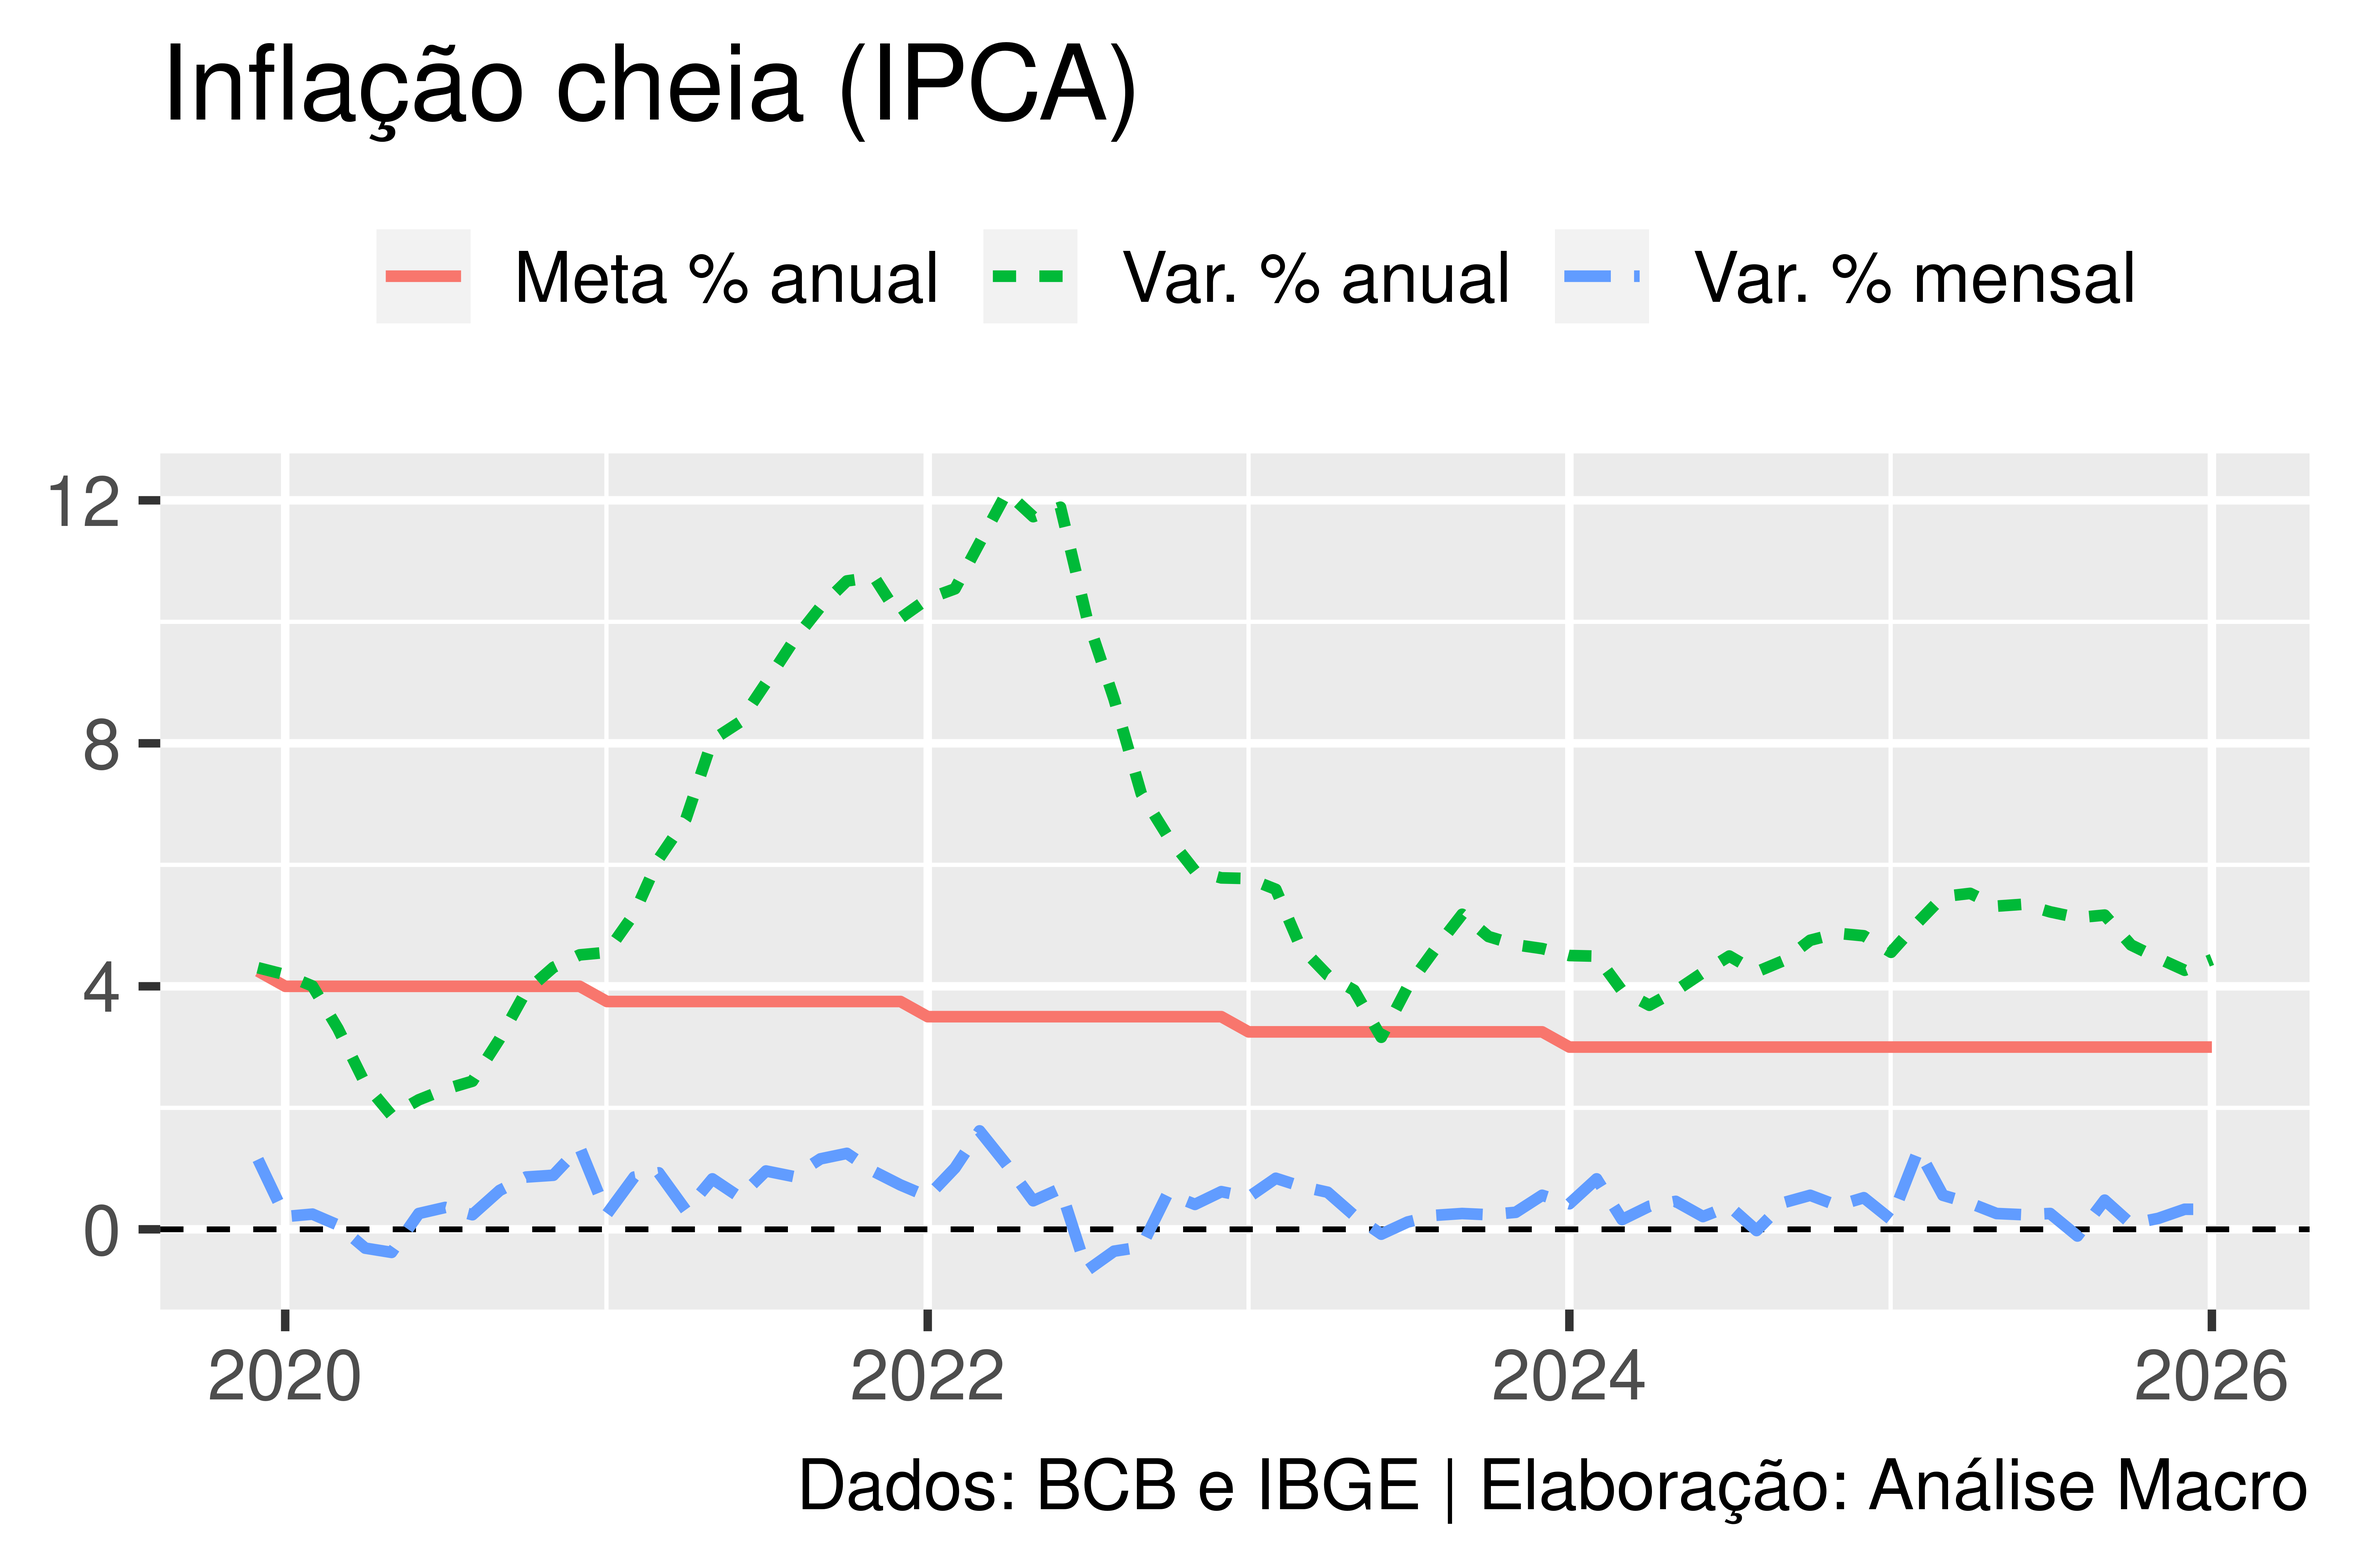
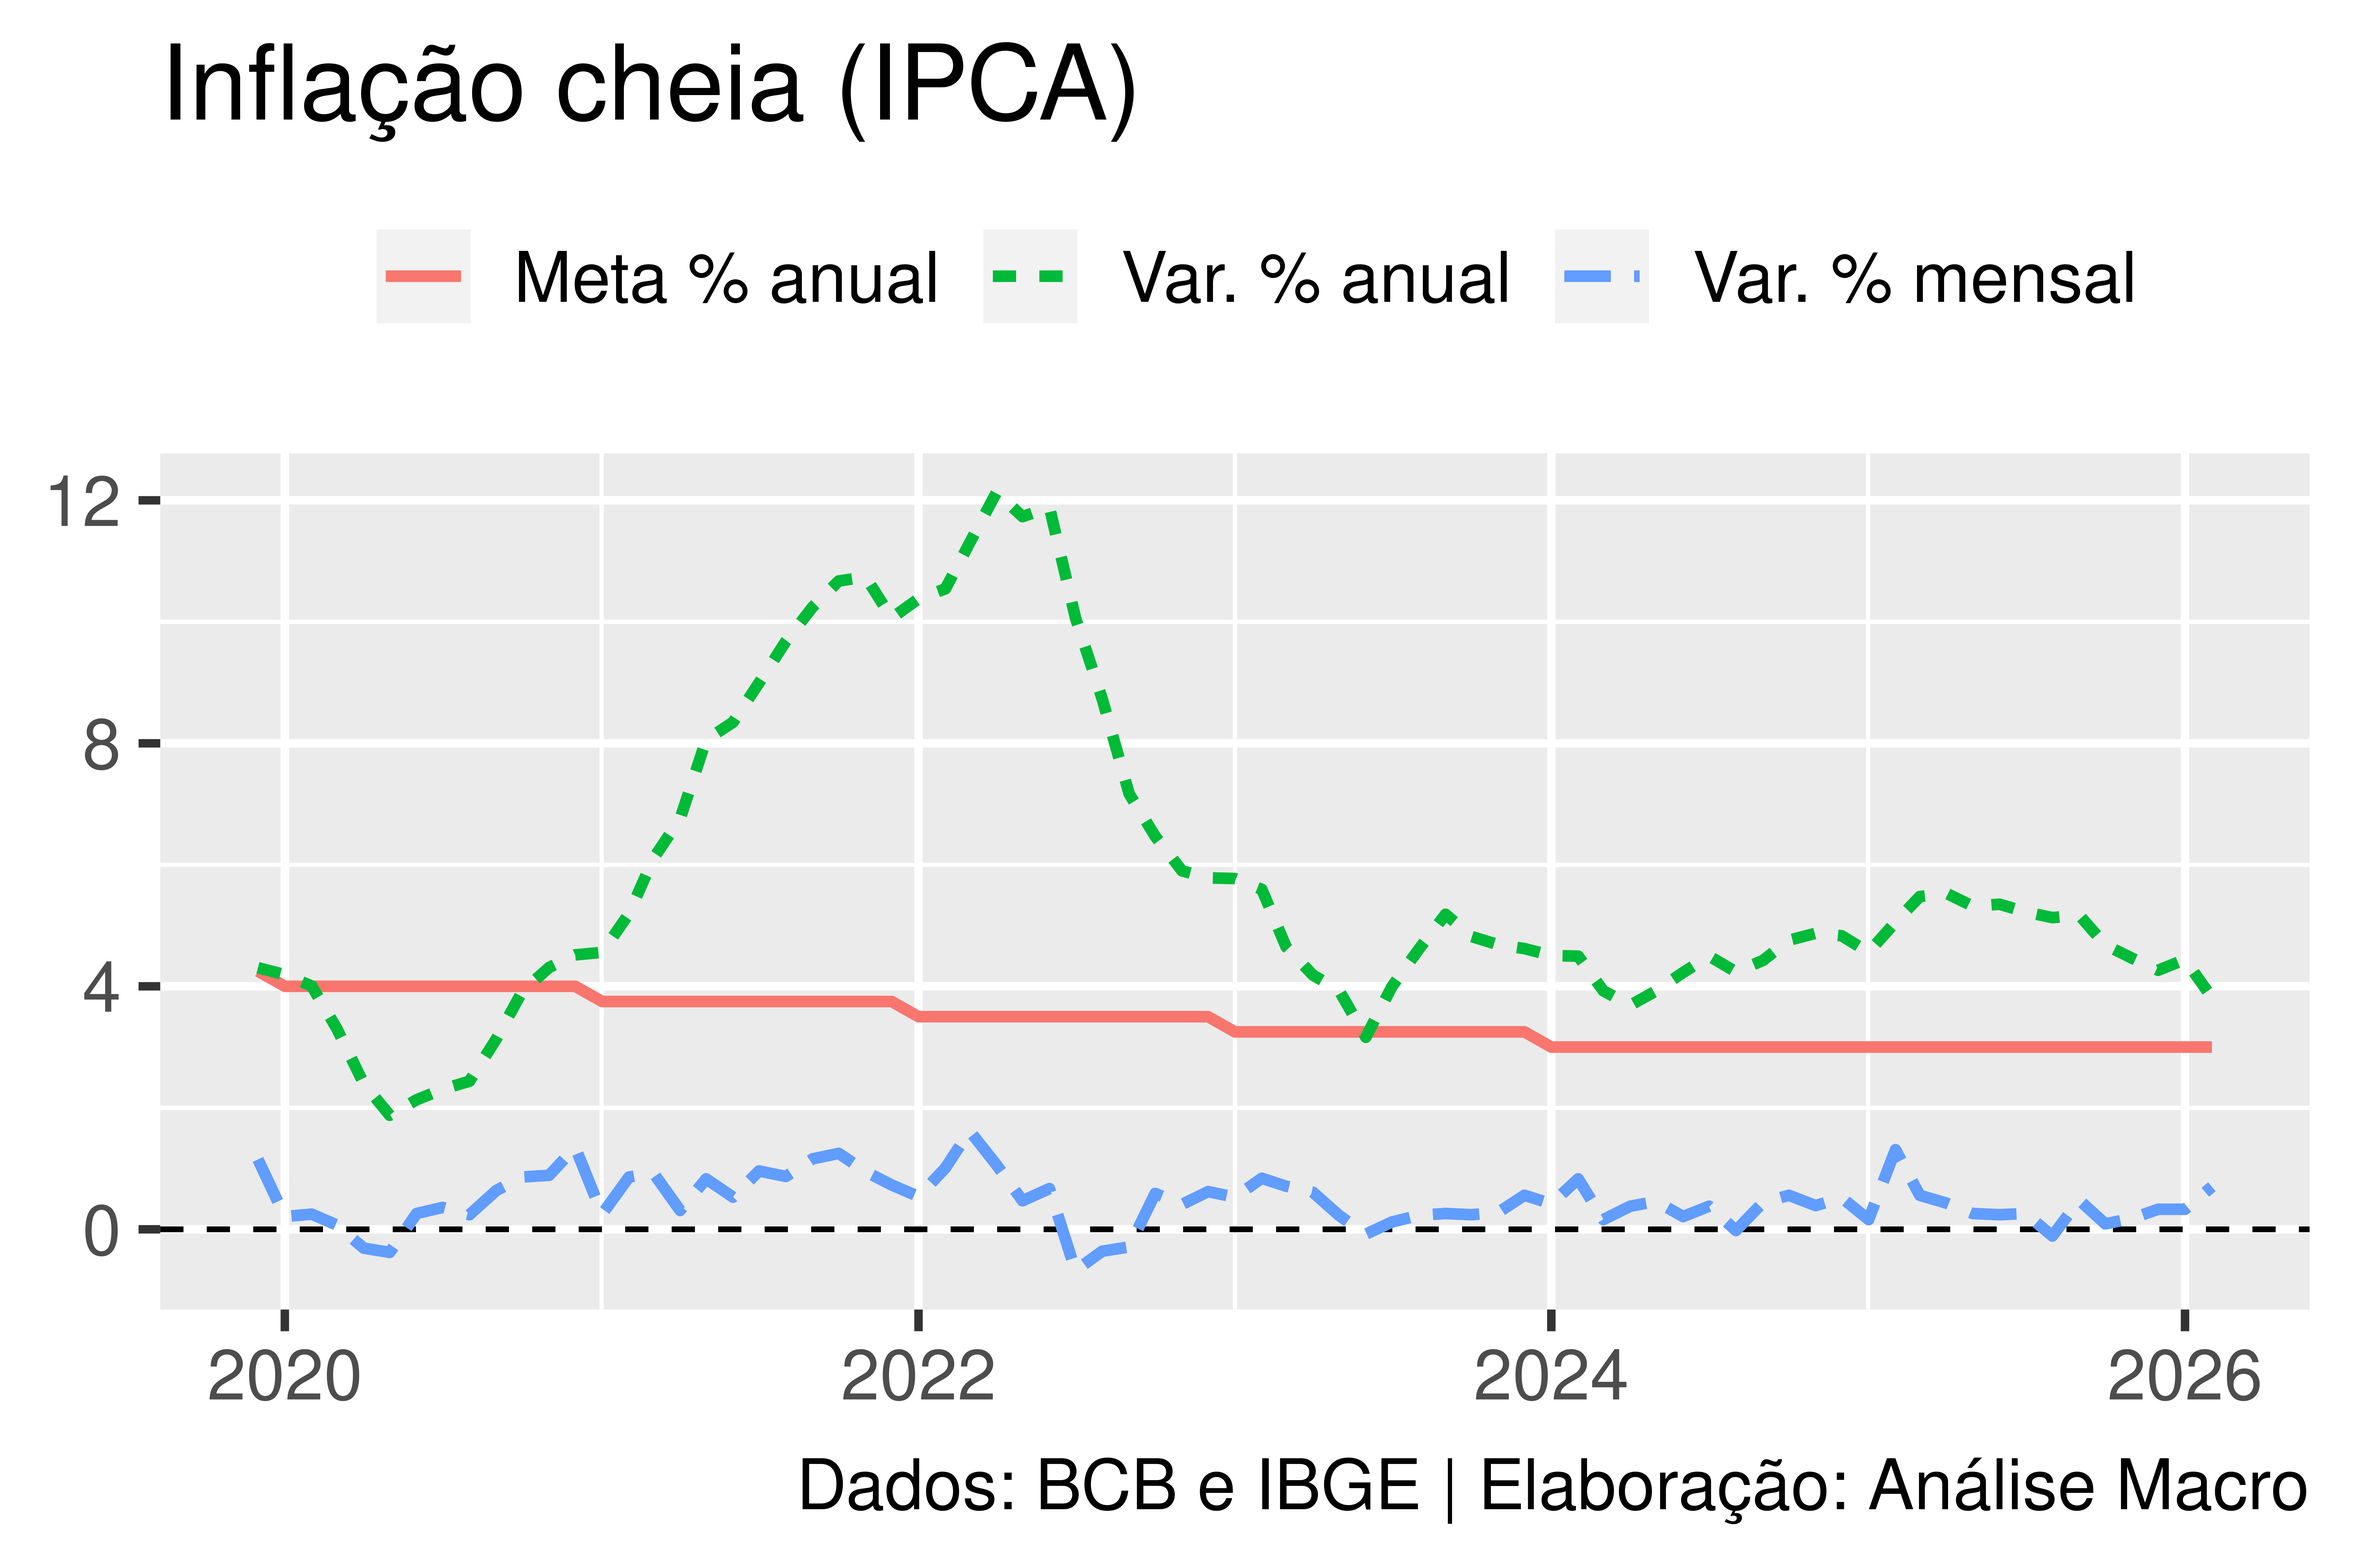
Atualização de relatório automatizada

diff --git a/relatório_ipca/ipca.html b/relatório_ipca/ipca.html
@@ -79,8 +79,8 @@ ul.task-list li input[type="checkbox"] {
 <h2 class="anchored" data-anchor-id="inflação-cheia">Inflação cheia</h2>
 <p>Principais destaques para o Índice nacional de preços ao consumidor-amplo (IPCA):</p>
 <ul>
-<li>O IPCA variou 0,33% no mês de 01/2026 em relação ao mês anterior.</li>
-<li>Em termos anuais, o IPCA acumula 4,44% nos últimos 12 meses.</li>
+<li>O IPCA variou 0,70% no mês de 02/2026 em relação ao mês anterior.</li>
+<li>Em termos anuais, o IPCA acumula 3,81% nos últimos 12 meses.</li>
 <li>Para o ano de 2026 a meta de inflação é de 3,00%. As informações são, quando não explicitamente referenciadas, do IBGE.</li>
 </ul>
 <div class="callout callout-style-default callout-note callout-titled">
